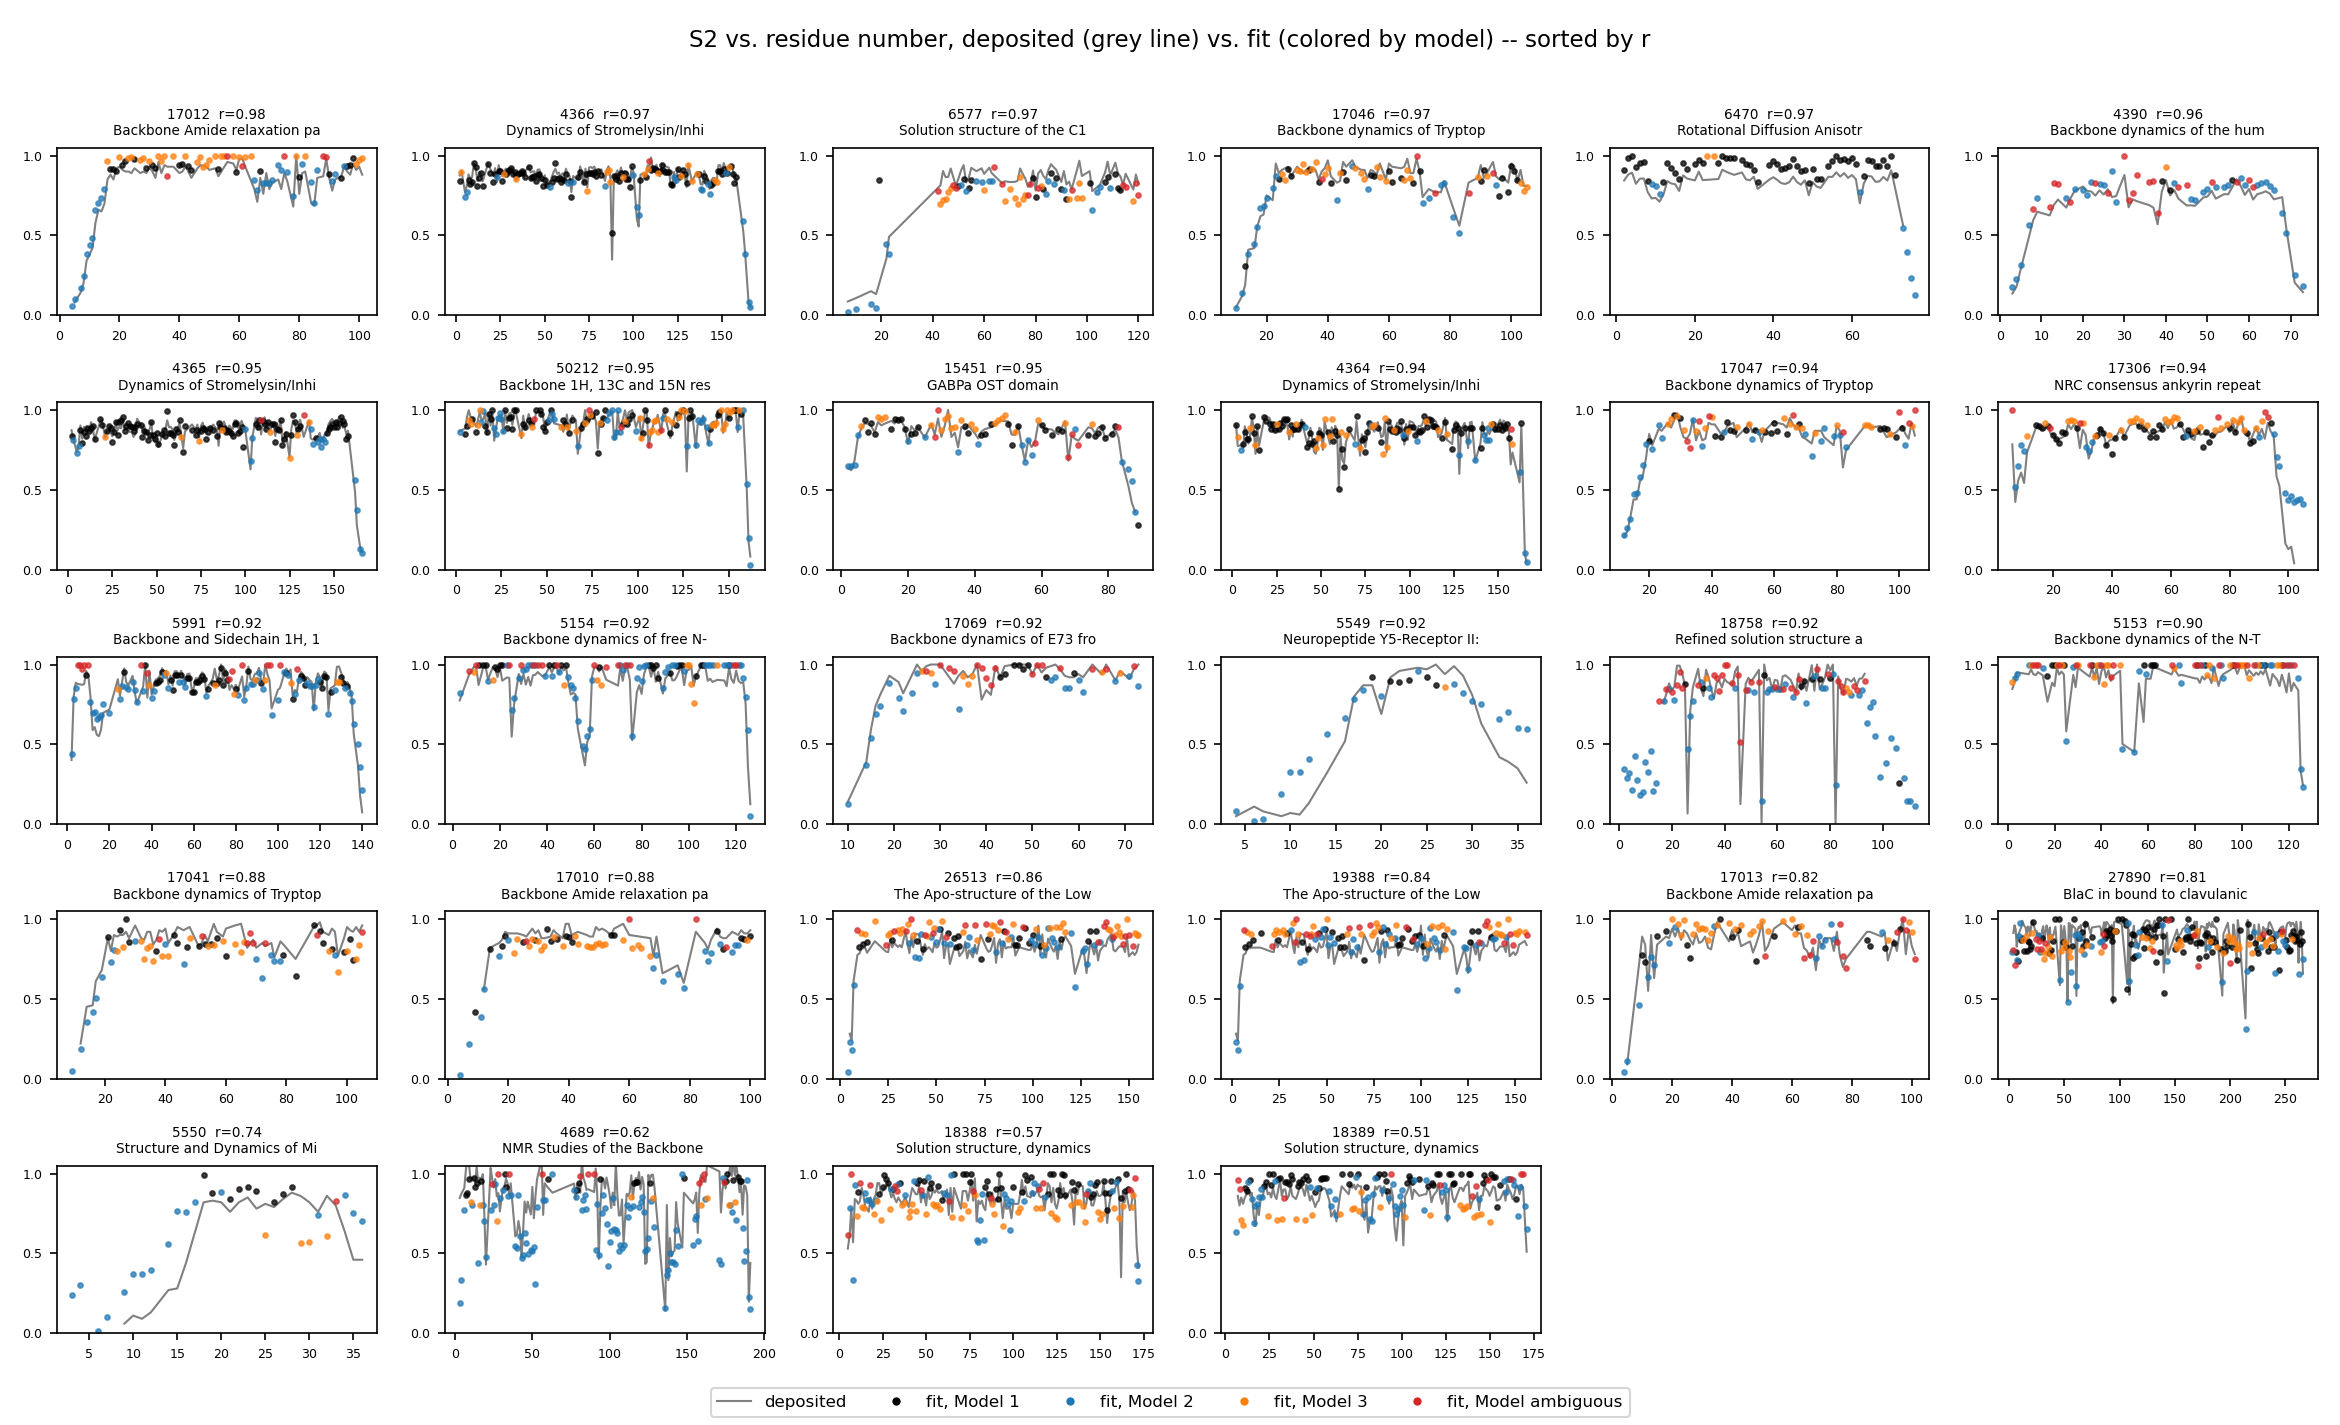
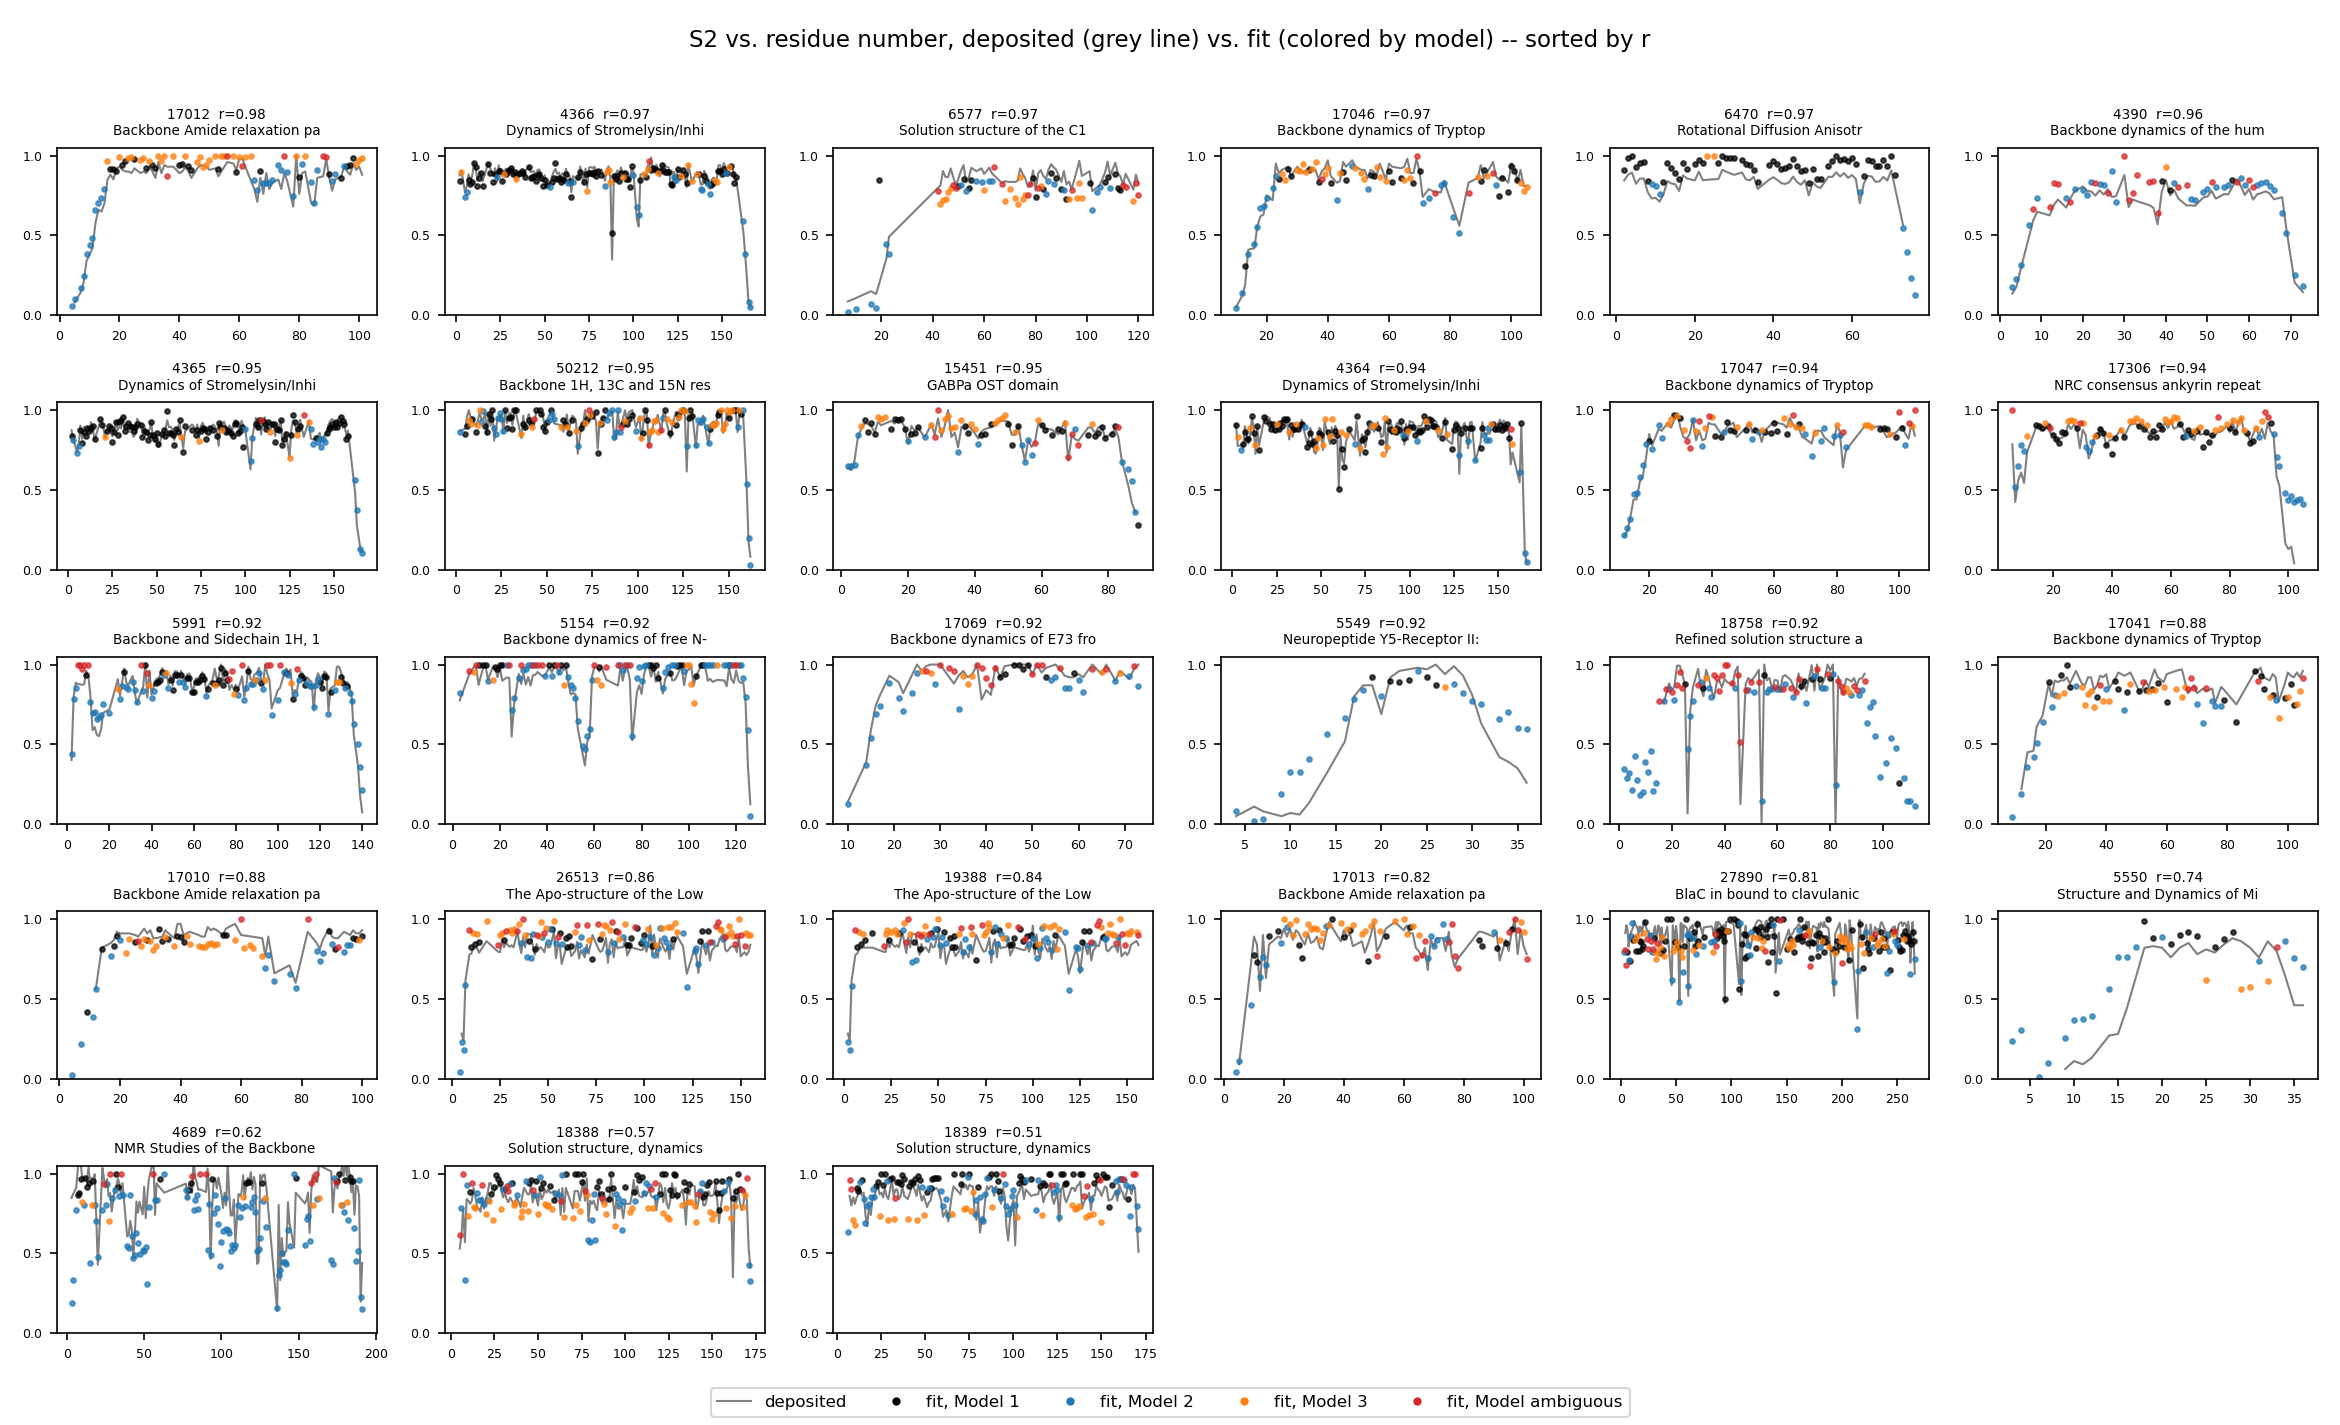
Exclude BMRB 5153 -- wrong structure resolved (MMP-3, not TIMP-1)
_resolve_pdb built the diffusion tensor from MMP-3 alone (1B3D): all of
the first ~20 (of 40) cited PDB ids are MMP-3-only structures (the
binding partner), and _best_pdb_by_length only checks the first 15, so
it never reached the actual complex (1UEA, cited at position 25).

More fundamentally, _best_pdb_by_length's size check compares a
candidate's total residue count against this profile's single-entity
sequence (126 residues, N-TIMP-1 alone) -- for a bound-complex study the
physically correct structure is the whole complex (~300+ residues),
which would never pass that check even if the right candidate were
reached. Fixing this properly needs entity-aware structure matching
(match one polymer entity within a candidate, not the whole structure's
size); not attempted here, so the entry is excluded and documented
instead of silently reporting numbers built on the wrong molecule.

Also documented 18388/18389 (CtCBM11) as unresolved: checked for the
same kind of per-residue outlier that explained 5153/Trp-repressor, and
found essentially none -- their weak correlation looks like diffuse
scatter, not a specific fixable bug.

27-entry validation set: pooled r=0.815, RMSE=0.090 (vs 0.817/0.090 for
28 entries -- 5153 was a middling entry, so this barely moves the
pooled numbers; the point is not reporting a fit built on the wrong
protein).

diff --git a/demos/s2_validation/validate_s2.py b/demos/s2_validation/validate_s2.py
@@ -30,7 +30,7 @@ prefilter -- it turned out true for the *whole* previously-diagnosed
 "unresolved" bucket, and for the majority of what were originally
 low-hanging "OK" entries too (13 of the first 41).
 
-28 single-field entries pass (ENTRIES below); EXCLUDED lists the
+27 single-field entries pass (ENTRIES below); EXCLUDED lists the
 single-field entries that still didn't, grouped by root cause:
 
   Data/parsing gaps (technical, not a modeling problem):
@@ -52,6 +52,19 @@ single-field entries that still didn't, grouped by root cause:
   calibration set, so no S2 fit is attempted rather than reporting numbers
   that shouldn't be trusted):
     50001 -- only 8 calibration residues, gap +0.42.
+
+  Wrong structure resolved (_resolve_pdb/_best_pdb_by_length landed on a
+  structure that doesn't represent the entity the relaxation data was
+  measured on):
+    5153 -- N-TIMP-1 bound to MMP-3: all cited PDB ids in the first ~20
+        (of 40) are MMP-3-only structures (the binding partner);
+        _best_pdb_by_length only checks the first 15 and picked one of
+        those (1B3D, no TIMP-1 at all) over the actual complex (1UEA,
+        cited at position 25). More fundamentally, the size check
+        compares a candidate's total residue count against this
+        profile's single-entity sequence, which a real bound-complex
+        structure never passes even when correctly identified --
+        needs entity-aware matching to fix properly.
 
   Unresolved:
     27929 -- BlaC + avibactam: r=0.02, no specific cause confirmed.
@@ -75,7 +88,7 @@ RCI_FILE = Path(__file__).parent / "validate_s2_vs_rci.png"
 RESULTS_CSV = Path(__file__).parent / "validate_s2_results.csv"
 PAIRS_CSV = Path(__file__).parent / "validate_s2_pairs.csv"
 
-ENTRIES = [4364, 4365, 4366, 4390, 4689, 5153, 5154, 5549, 5550, 5991, 6470,
+ENTRIES = [4364, 4365, 4366, 4390, 4689, 5154, 5549, 5550, 5991, 6470,
            6577, 15451, 17010, 17012, 17013, 17041, 17046, 17047, 17069,
            17306, 18388, 18389, 18758, 19388, 26513, 27890, 50212]
 
@@ -100,6 +113,20 @@ EXCLUDED = {
            "presumed-rigid calibration residues, tau_scale pinned at the "
            "search boundary, calibration gap +0.42 (> the 0.3 unreliable "
            "threshold)",
+    5153: "wrong structure resolved -- entry cites 40 PDB ids for its "
+          "binding partner MMP-3, none of which include TIMP-1 itself, "
+          "within the first ~20; _best_pdb_by_length only checks the "
+          "first 15, so it landed on 1B3D (MMP-3 alone, no TIMP-1) "
+          "instead of 1UEA (the actual MMP-3/TIMP-1 complex, cited at "
+          "position 25). More fundamentally, _best_pdb_by_length's size "
+          "check compares a candidate's *total* residue count against "
+          "this profile's single-entity sequence (126 residues, "
+          "N-TIMP-1 alone) -- for a bound-complex study the physically "
+          "correct structure is the whole complex (~300+ residues), "
+          "which never passes that check even when found. Needs "
+          "entity-aware structure matching (match one polymer entity "
+          "within a candidate, not the whole structure's size) to fix "
+          "properly; not attempted here.",
 }
 
 

diff --git a/docs/order_parameters_validation.md b/docs/order_parameters_validation.md
@@ -23,17 +23,17 @@ almost certainly came from a joint multi-field fit, a better-constrained
 problem than the single-field refit this code does, so a mismatch there
 isn't evidence of anything wrong on either side.
 
-**28 single-field entries pass.** Pooled across all of them:
+**27 single-field entries pass.** Pooled across all of them:
 
 | Metric | Value |
 |---|---|
-| Pearson r | 0.817 |
+| Pearson r | 0.815 |
 | RMSE | 0.090 |
-| n | 2656 residues |
+| n | 2572 residues |
 
 Excluding "ambiguous"-model residues (both a NOE deficit and an R2 excess
 detected -- S2 falls back to the Model 1 point estimate rather than being
-confidently attributed to Model 2 or 3): r=0.828, RMSE=0.090, n=2374. See
+confidently attributed to Model 2 or 3): r=0.827, RMSE=0.090, n=2310. See
 [validate_s2_no_ambiguous.png](../demos/s2_validation/validate_s2_no_ambiguous.png)
 alongside the all-models plot below.
 
@@ -60,7 +60,6 @@ Sorted by Pearson r, high to low.
 | 17069 | E73, SSV-RH | 600 | 51 | 0.921 | 0.068 |
 | 5549 | NPY analog [31Ala,32Pro] | 500 | 28 | 0.919 | 0.164 |
 | 18758 | E1 enzyme half-domain | 400 | 71 | 0.916 | 0.096 |
-| 5153 | N-TIMP-1 + MMP-3 | 600 | 84 | 0.900 | 0.084 |
 | 17041 | Trp repressor, WT (holo) | 600 | 65 | 0.884 | 0.097 |
 | 17010 | Trp repressor, WT | 600 | 55 | 0.881 | 0.067 |
 | 26513 | MptpA, apo (b) | 600 | 111 | 0.856 | 0.089 |
@@ -110,8 +109,32 @@ substantially different order parameters for that calibration set (gap
 tensor reconciles R1 and R2 here, so no S² is reported rather than
 reporting numbers that shouldn't be trusted.
 
-**Unresolved (1 entry).** 27929 (BlaC + avibactam): r=0.02, no specific
-cause confirmed.
+**Wrong structure resolved (1 entry).** 5153 (N-TIMP-1 bound to MMP-3) —
+`_resolve_pdb` built the diffusion tensor from MMP-3 alone (1B3D, the
+binding partner, no TIMP-1 present at all), not from any structure of
+N-TIMP-1 or the complex. All of the first ~20 (of 40) cited PDB ids are
+MMP-3-only structures; `_best_pdb_by_length` only checks the first 15,
+so the actual complex (1UEA, cited at position 25) never got considered.
+More fundamentally, the size check compares a candidate's *total*
+residue count against this profile's single-entity sequence (126
+residues, N-TIMP-1 alone) — for a bound-complex study the physically
+correct structure is the whole complex (~300+ residues), which would
+never pass that check even if reached. Fixing this properly needs
+entity-aware structure matching (match one polymer entity within a
+candidate structure, not the whole structure's size); not attempted.
+Despite the wrong molecule entirely, this entry still reached r=0.900
+before being excluded — a reminder that a plausible-looking correlation
+isn't proof the underlying structure was right.
+
+**Unresolved (2 entries).** 27929 (BlaC + avibactam): r=0.02, no
+specific cause confirmed. 18388/18389 (CtCBM11, apo/bound): r=0.57/0.51
+-- checked for large per-residue outliers the way 5153 and the
+Trp-repressor entries had; found essentially none (one residue >0.3 off
+in 18388, zero in 18389). The weak correlation looks like diffuse,
+moderate scatter across most residues rather than a few residues driven
+by a specific bug -- possibly genuine dynamical complexity this
+Models-1-3 framework doesn't capture well, or noisier underlying data,
+not something a specific code fix was found for.
 
 ## Bugs found during validation
 
